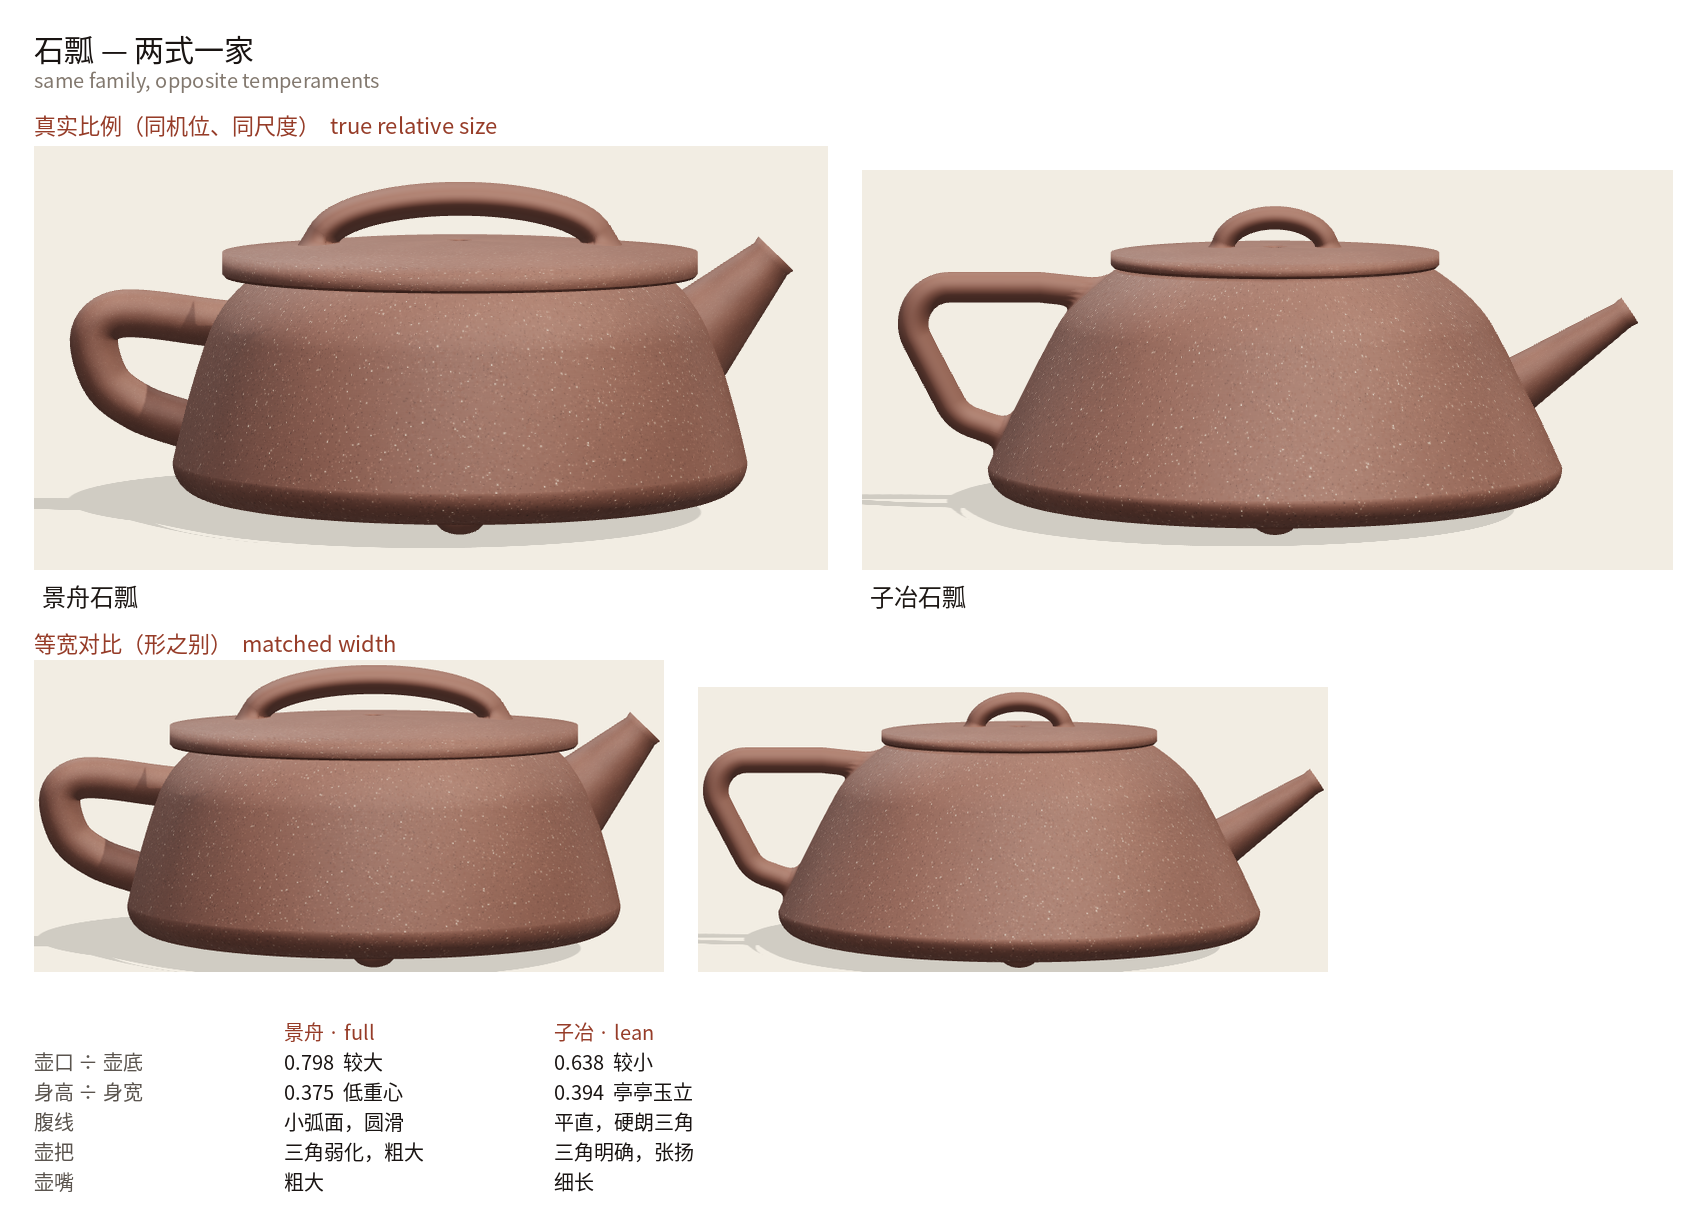
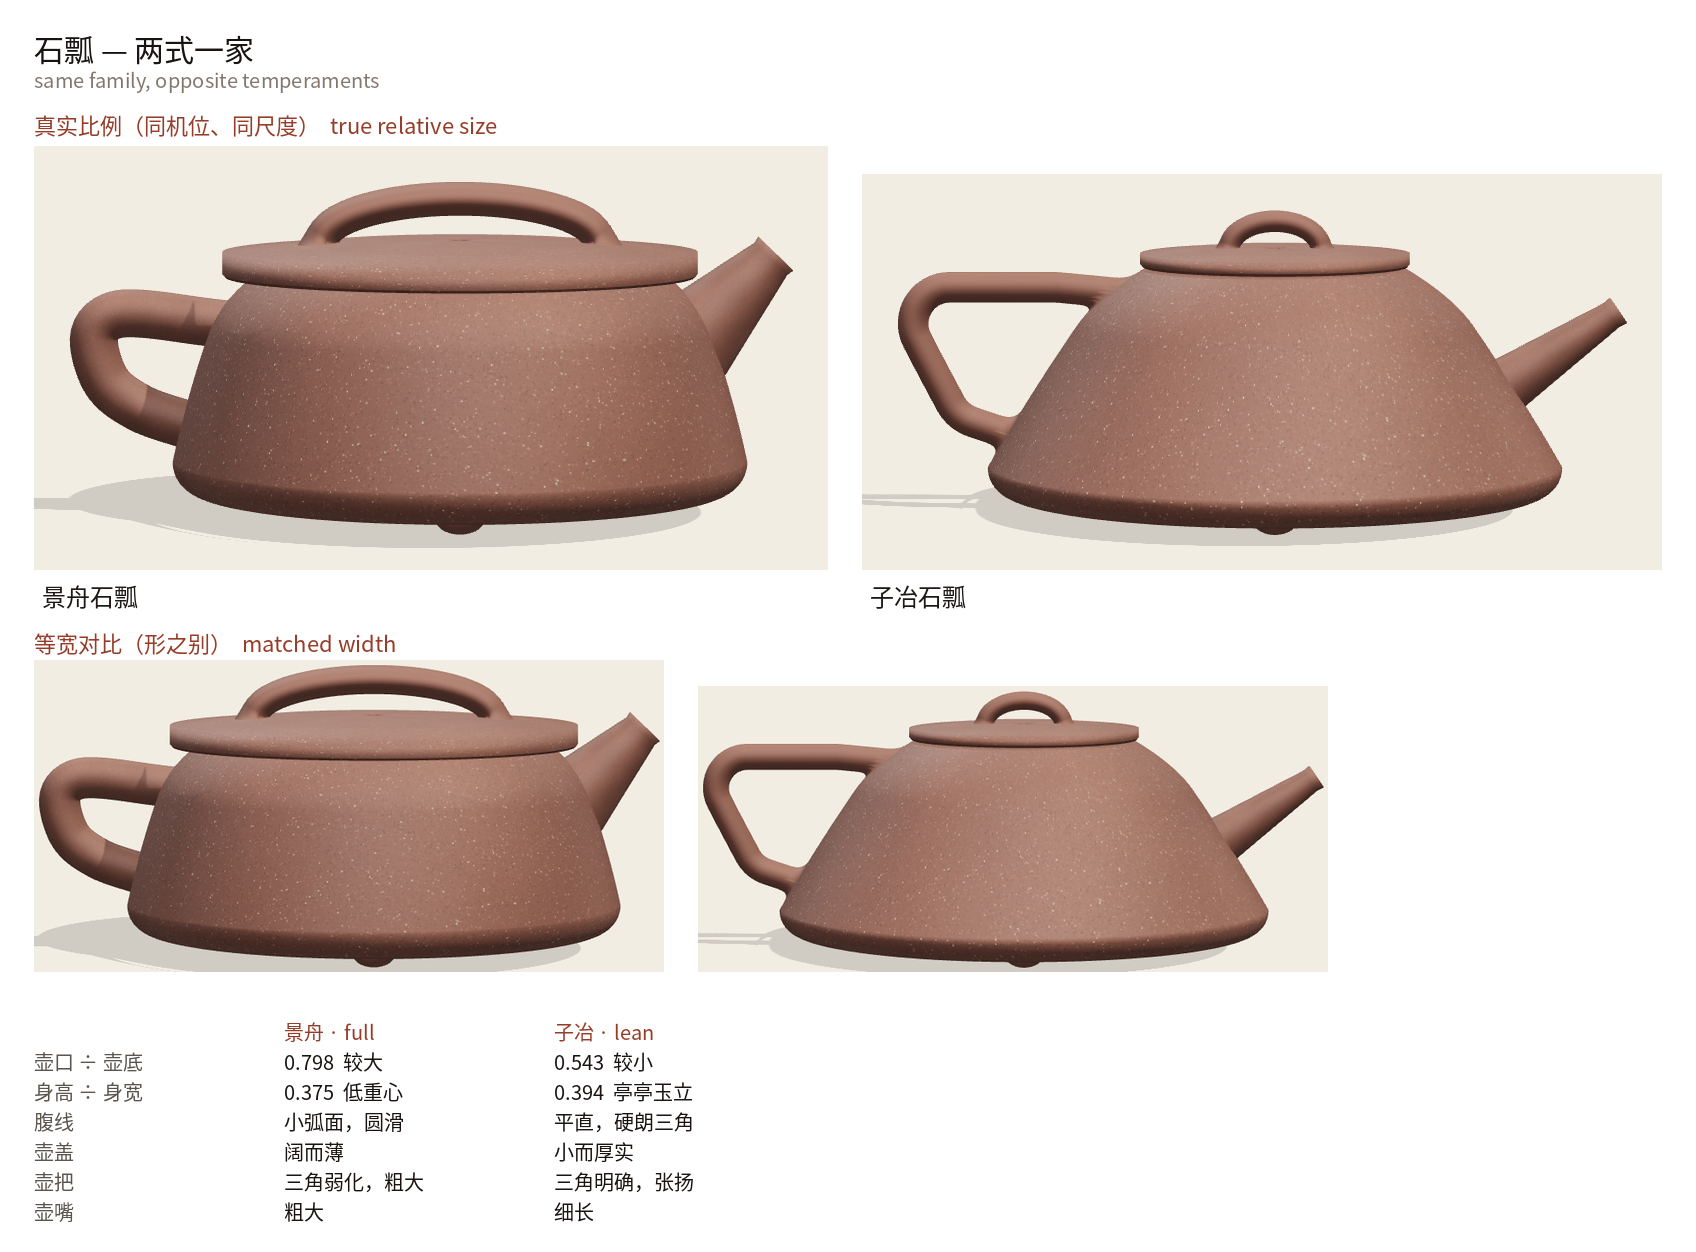
子冶石瓢: smaller lid, by way of a smaller mouth
The lid follows the body's mouth, and 子冶's canon is 壶口较小 — so the mouth
was the lever, not the overhang. mouthR 0.60 -> 0.51, taking mouth/foot from
0.638 to 0.543 (canon allows 0.45-0.85), with the lid narrowed and the knob
brought down to suit. The lid stays thick: 壶盖比较厚实 is part of the form.

That widens the gap from 景舟, which is the point of having both — 0.798 against
0.543 on the same measure. Comparison image on /refs/ updated.

Eight-angle QC; canon and details pass on all seven pots.

Claude-Session: https://claude.ai/code/session_01Au3NkrP4Zh9Vb2uEzJxxmj

Changed region(s): [[0.0, 0.0311, 1.0, 0.9951], [0.0, 0.8396, 0.0938, 0.964], [0.875, 0.2488, 0.9688, 0.3421]]

diff --git a/public/refs/index.html b/public/refs/index.html
@@ -23,7 +23,7 @@
 
 <figure><figcaption>石瓢 — 景舟 and 子冶 side by side, at true relative size and at matched width</figcaption>
 <a href="shipiao_two.png"><img src="shipiao_two.png" alt=""></a></figure>
-<figure><figcaption>子冶石瓢 — the lean, angular 石瓢, beside our 景舟石瓢 for contrast</figcaption>
+<figure><figcaption>子冶石瓢 — the lid before and after shrinking the mouth, with 景舟 for contrast</figcaption>
 <a href="ziye_cmp.png"><img src="ziye_cmp.png" alt=""></a></figure>
 
 <figure><figcaption>子冶石瓢 — eight-angle QC</figcaption>
